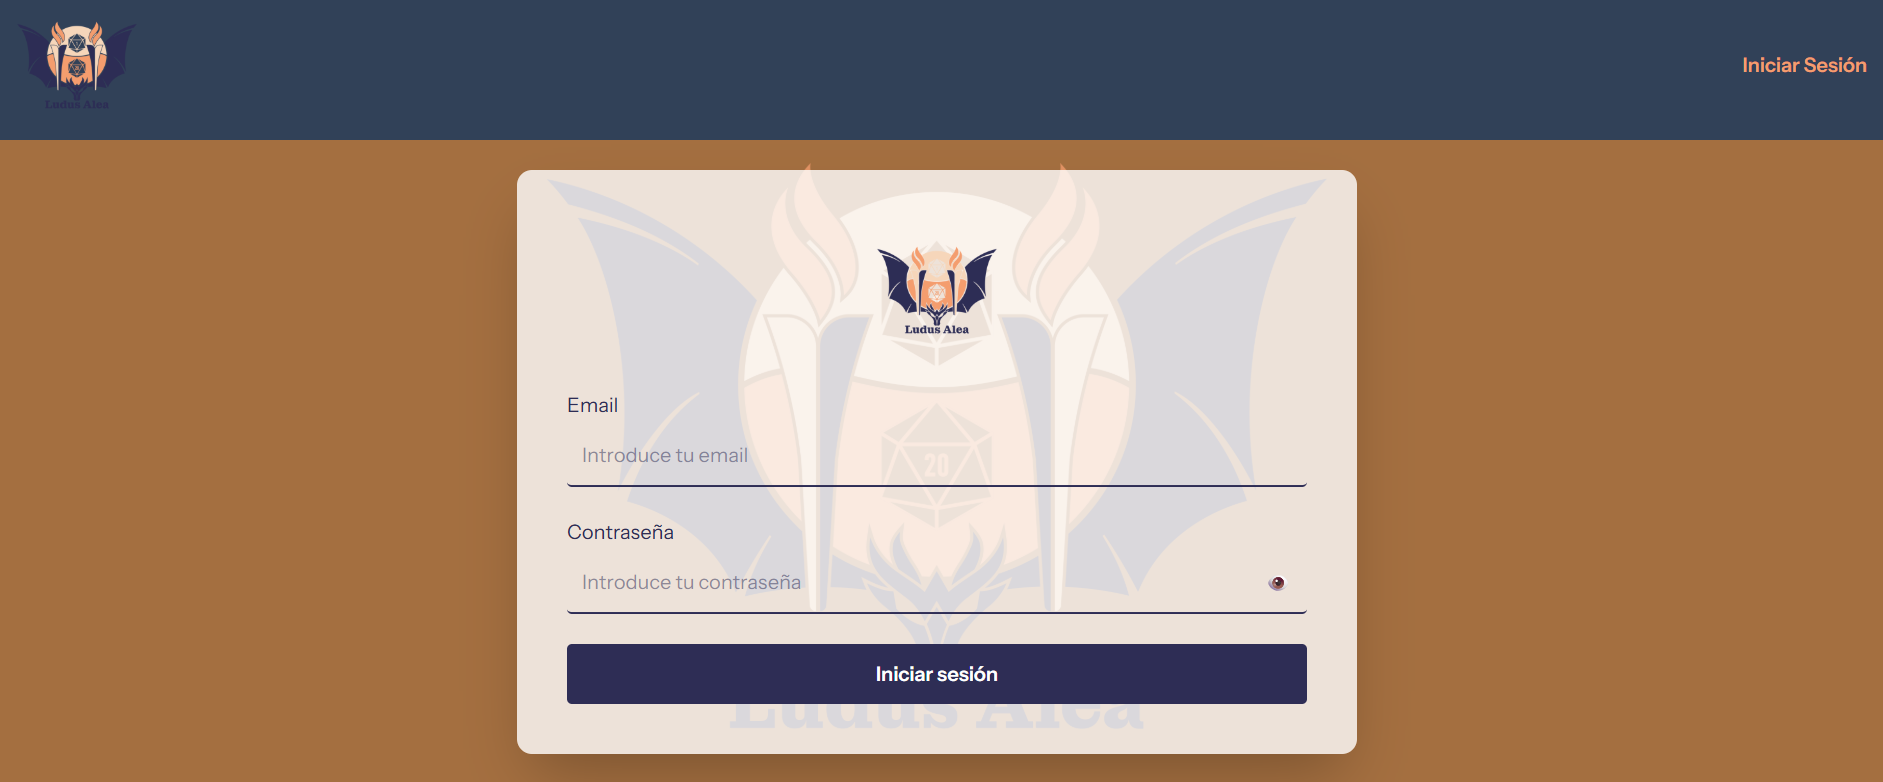
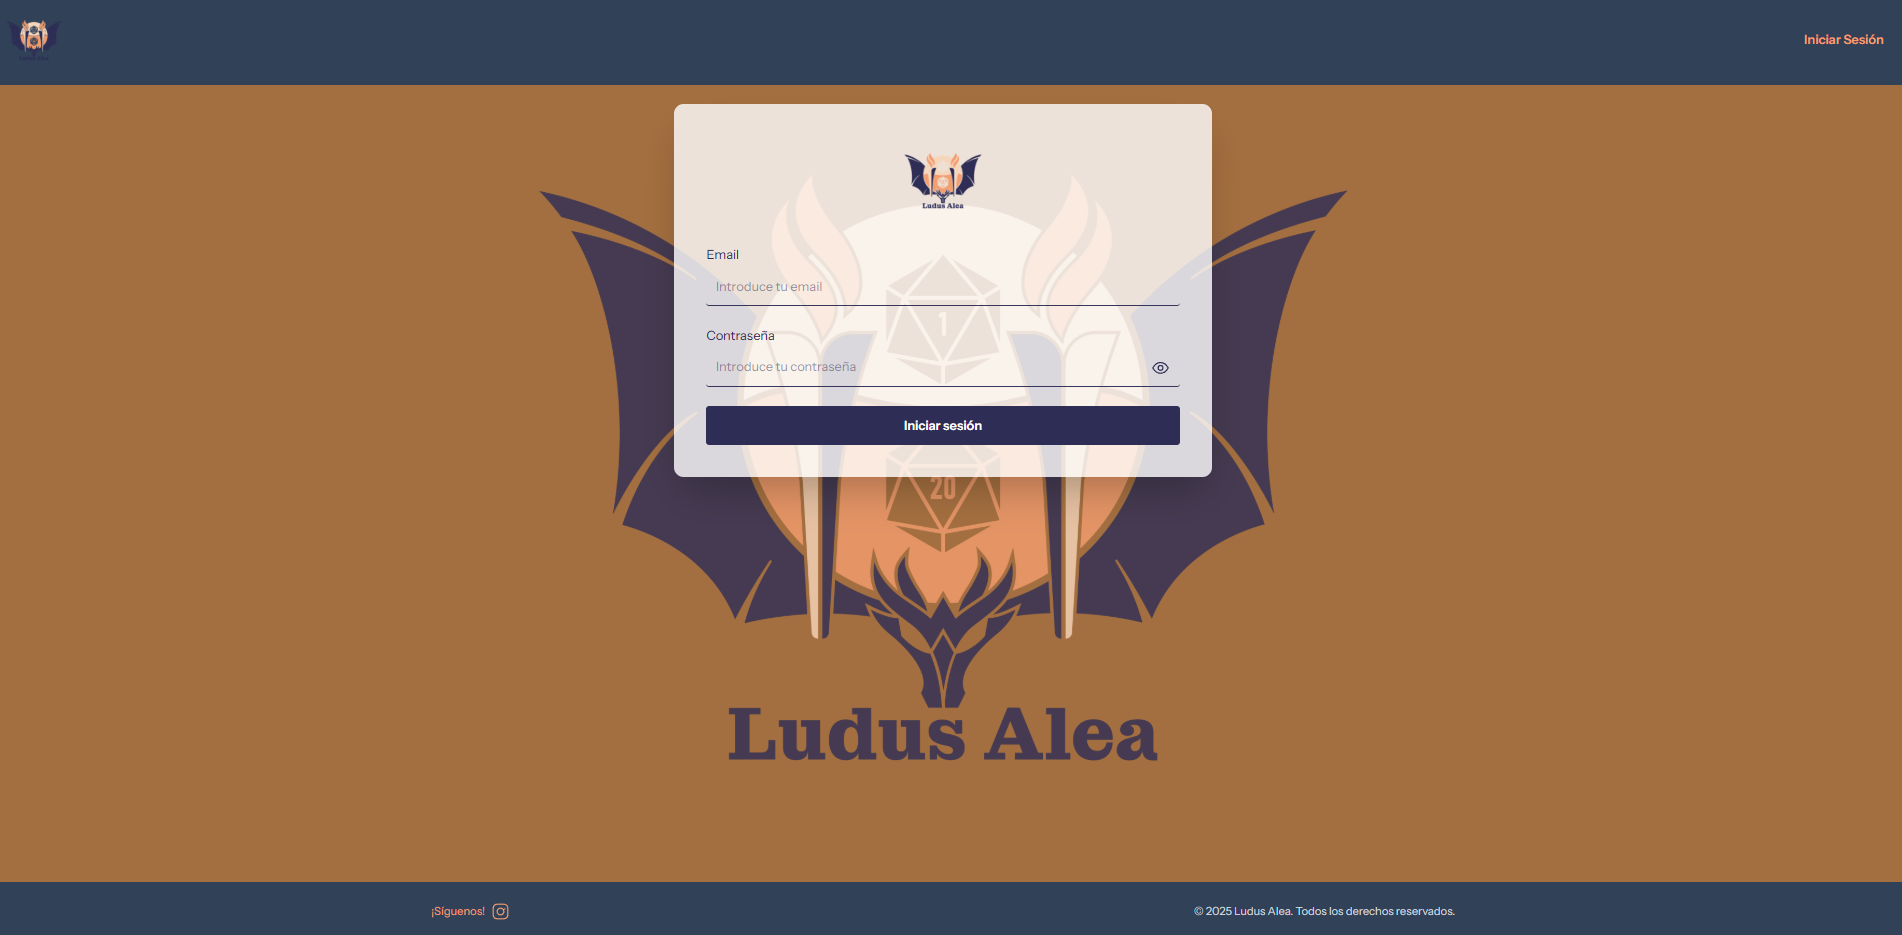
Cambios en sesion

diff --git a/resources/views/auth/login.blade.php b/resources/views/auth/login.blade.php
@@ -1,57 +1,75 @@
 @extends('layout.app')
 
 @section('content')
-    
-        <div class="w-full max-w-2xl mx-auto bg-[white]/80 rounded-xl p-10 shadow-2xl z-10">
-            <header class="mb-6">
-                <img class="w-28 mx-auto" src="{{ asset('logo.png') }}" alt="Logo Ludus Alea">
-            </header>
+    <div class="w-full max-w-2xl mx-auto bg-[white]/80 rounded-xl p-10 shadow-2xl z-10">
+        <header class="mb-6">
+            <img class="w-28 mx-auto" src="{{ asset('logo.png') }}" alt="Logo Ludus Alea">
+        </header>
 
-            <form method="POST" action="{{ route('login') }}" class="space-y-6">
-                @csrf
+        <form method="POST" action="{{ route('login') }}" class="space-y-6">
+            @csrf
 
-                <div>
-                    <label class="block mb-1 text-[#2e2d55]" for="email">Email</label>
-                    <input type="email" name="email" id="email" required
+            <div>
+                <label class="block mb-1 text-[#2e2d55]" for="email">Email</label>
+                <input type="email" name="email" id="email" required
+                    class="w-full p-3 text-[#2e2d55] border-b-2 border-[#2e2d55] outline-none focus:bg-[#f49d6e]/50 rounded bg-transparent"
+                    placeholder="Introduce tu email" value="{{ old('email') }}">
+                @error('email')
+                    <p class="text-red-600 text-sm mt-1">{{ $message }}</p>
+                @enderror
+            </div>
+
+            <div>
+                <label class="block mb-1 text-[#2e2d55]" for="password">Contraseña</label>
+                <div class="relative">
+                    <input type="password" name="password" id="password" required
                         class="w-full p-3 text-[#2e2d55] border-b-2 border-[#2e2d55] outline-none focus:bg-[#f49d6e]/50 rounded bg-transparent"
-                        placeholder="Introduce tu email" value="{{ old('email') }}">
-                    @error('email')
-                        <p class="text-red-600 text-sm mt-1">{{ $message }}</p>
-                    @enderror
-                </div>
+                        placeholder="Introduce tu contraseña">
 
-                <div>
-                    <label class="block mb-1 text-[#2e2d55]" for="password">Contraseña</label>
-                    <div class="relative">
-                        <input type="password" name="password" id="password" required
-                            class="w-full p-3 text-[#2e2d55] border-b-2 border-[#2e2d55] outline-none focus:bg-[#f49d6e]/50 rounded bg-transparent"
-                            placeholder="Introduce tu contraseña">
+                    <button type="button" onclick="togglePassword()" 
+                        class="absolute right-3 top-1/2 -translate-y-1/2 text-[#2e2d55]">
+                        <svg id="eye-open" xmlns="http://www.w3.org/2000/svg" fill="none"
+                             viewBox="0 0 24 24" stroke-width="1.5" stroke="currentColor"
+                             class="w-6 h-6 hidden">
+                            <path stroke-linecap="round" stroke-linejoin="round"
+                                  d="M2.25 12s3.75-6.75 9.75-6.75S21.75 12 21.75 12s-3.75 6.75-9.75 6.75S2.25 12 2.25 12z" />
+                            <path stroke-linecap="round" stroke-linejoin="round"
+                                  d="M15 12a3 3 0 11-6 0 3 3 0 016 0z" />
+                        </svg>
 
-                        <button type="button" onclick="togglePassword()" 
-                            class="absolute right-3 top-1/2 -translate-y-1/2 text-[#2e2d55]">
-                            👁
-                        </button>
-                    </div>
-    @error('password')
-        <p class="text-red-600 text-sm mt-1">{{ $message }}</p>
-    @enderror
-</div>
-
-<script>
-    function togglePassword() {
-        const input = document.getElementById('password');
-        input.type = input.type === 'password' ? 'text' : 'password';
-    }
-</script>
-
-
-                <div>
-                    <button type="submit"
-                        class="w-full bg-[#2e2d55] hover:bg-[#f49d6e] text-white font-bold py-3 px-4 rounded transition">
-                        Iniciar sesión
+                        <svg id="eye-closed" xmlns="http://www.w3.org/2000/svg" fill="none"
+                             viewBox="0 0 24 24" stroke-width="1.5" stroke="currentColor"
+                             class="w-6 h-6">
+                            <path stroke-linecap="round" stroke-linejoin="round"
+                                  d="M3.98 8.223A10.477 10.477 0 002.25 12c0 .966.137 1.897.392 2.778M6.75 6.75A10.45 10.45 0 0112 5.25c6 0 9.75 6.75 9.75 6.75a10.45 10.45 0 01-1.591 2.507M6.75 6.75L3 3m3.75 3.75l3.749 3.749m0 0a3 3 0 104.242 4.242m-4.242-4.242L12 12m0 0l3.75 3.75m0 0L21 21" />
+                        </svg>
                     </button>
                 </div>
-            </form>
-        </div>
-    
+                @error('password')
+                    <p class="text-red-600 text-sm mt-1">{{ $message }}</p>
+                @enderror
+            </div>
+
+            <div>
+                <button type="submit"
+                    class="w-full bg-[#2e2d55] hover:bg-[#f49d6e] text-white font-bold py-3 px-4 rounded transition">
+                    Iniciar sesión
+                </button>
+            </div>
+        </form>
+    </div>
+
+    <script>
+        function togglePassword() {
+            const input = document.getElementById('password');
+            const eyeOpen = document.getElementById('eye-open');
+            const eyeClosed = document.getElementById('eye-closed');
+
+            const isHidden = input.type === 'password';
+            input.type = isHidden ? 'text' : 'password';
+
+            eyeOpen.classList.toggle('hidden', !isHidden);
+            eyeClosed.classList.toggle('hidden', isHidden);
+        }
+    </script>
 @endsection

diff --git a/resources/views/partials/navbar.blade.php b/resources/views/partials/navbar.blade.php
@@ -6,7 +6,10 @@
 <nav x-data="{ open: false }" class="bg-slate-700 px-6 py-4">
     <div class="flex items-center justify-between">
         <a href="{{ route('home') }}">
-            <img src="{{ asset('logo.png') }}" alt="Ludus Alea" class="h-20">
+            <div class="relative w-20 h-20">
+                <div class="absolute inset-0 rounded-full bg-white/70 blur-sm z-0"></div>
+                <img src="{{ asset('logo.png') }}" alt="Ludus Alea" class="relative z-10 w-20 h-20 object-contain">
+            </div>
         </a>
 
         <button @click="open = !open" class="text-white md:hidden focus:outline-none">

diff --git a/resources/views/layout/app.blade.php b/resources/views/layout/app.blade.php
@@ -10,9 +10,8 @@
     <link rel="preconnect" href="https://fonts.bunny.net">
     <link href="https://fonts.bunny.net/css?family=instrument-sans:400,500,600" rel="stylesheet" />
     <script defer src="https://unpkg.com/alpinejs@3.x.x/dist/cdn.min.js"></script>
-    
+    <script src="https://unpkg.com/@heroicons/vue@2.0.16/24/solid/index.min.js" defer></script>
         @vite(['resources/css/app.css'])
-   
 </head>
 <body class="flex flex-col min-h-screen text-[#2e2d55] bg-[#a46f40] relative">
 
